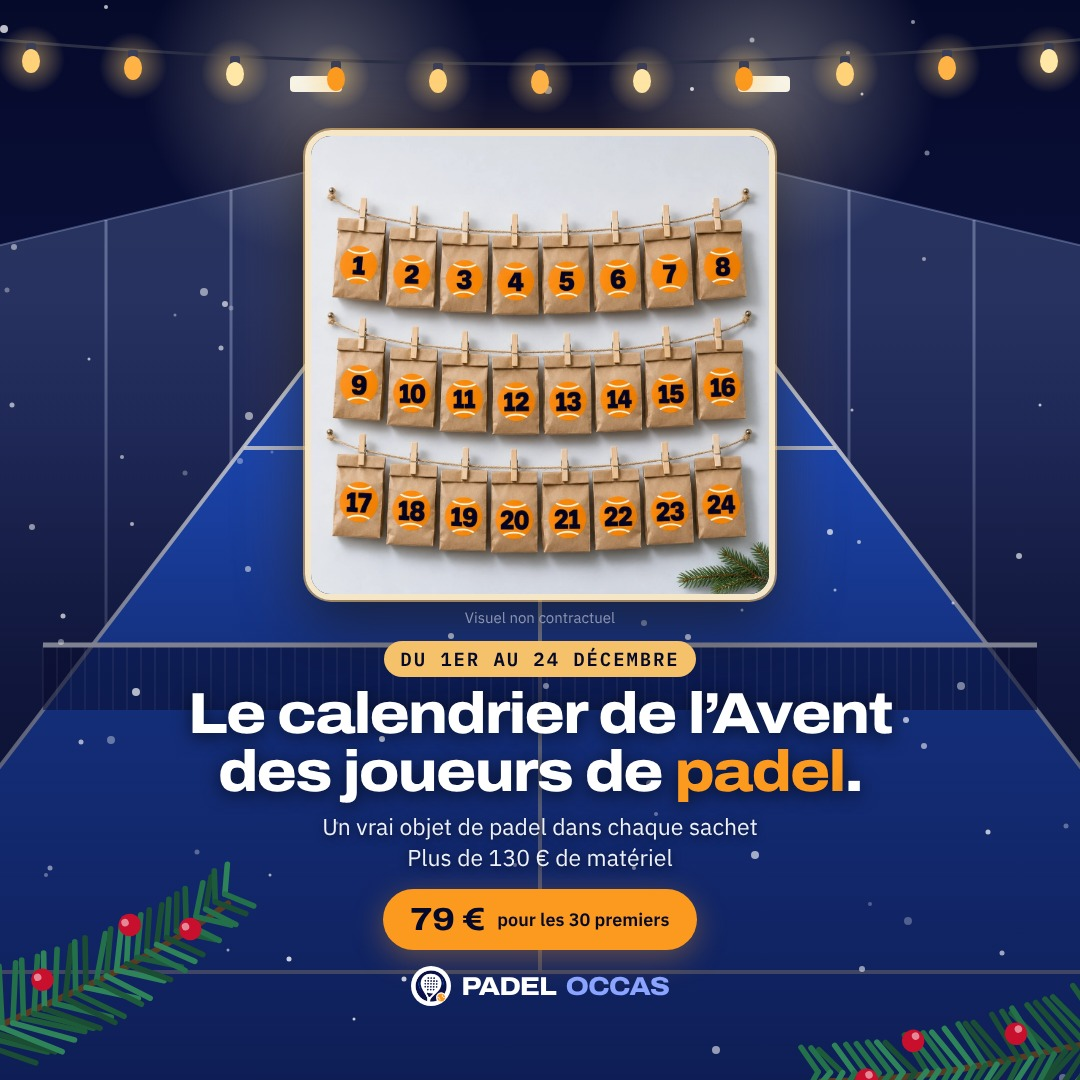
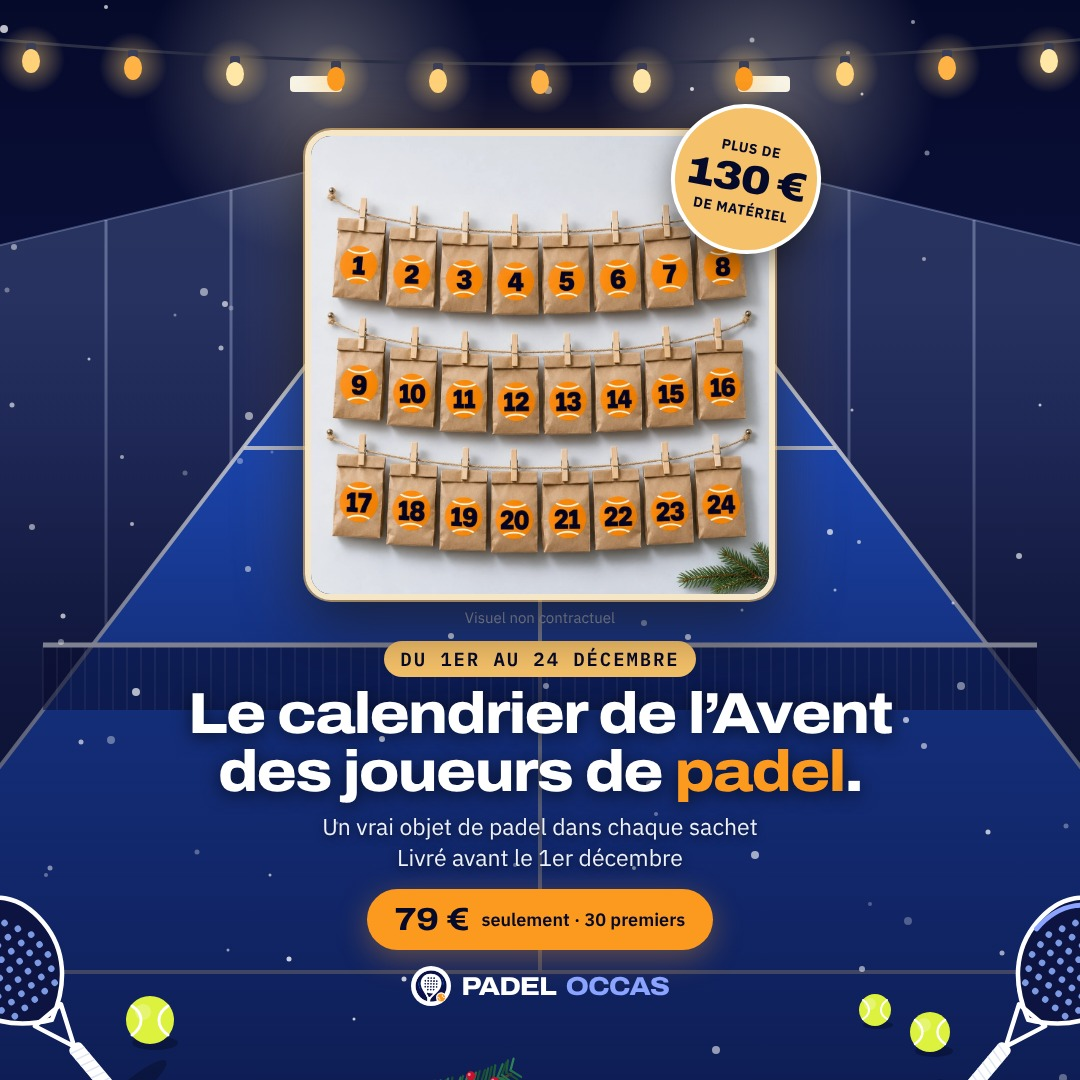
Pubs : raquettes, balles et pastille « + de 130 € » ; fiche Google Ads
Claude-Session: https://claude.ai/code/session_019D3zZFY3edwsYLJmSPcafF

diff --git a/pubs-meta/source/gen_pubs2.py b/pubs-meta/source/gen_pubs2.py
@@ -2,14 +2,14 @@ import sys, random
 P=sys.argv[1]
 random.seed(12)
 angles={
- 'pour-vous':{'eyebrow':'Du 1er au 24 décembre','titre':'Le calendrier de l’Avent<br>des joueurs de <span class="p">padel</span>.','sous':'Un vrai objet de padel dans chaque sachet<br>Plus de 130&nbsp;€ de matériel'},
+ 'pour-vous':{'eyebrow':'Du 1er au 24 décembre','titre':'Le calendrier de l’Avent<br>des joueurs de <span class="p">padel</span>.','sous':'Un vrai objet de padel dans chaque sachet<br>Livré avant le 1er&nbsp;décembre'},
  'cadeau':{'eyebrow':'Idée cadeau de Noël','titre':'Le cadeau de Noël<br>des joueurs de <span class="p">padel</span>.','sous':'24 surprises de padel à ouvrir en décembre<br>Livré avant le 1er&nbsp;décembre'},
 }
 formats={'carre':(1080,1080),'4x5':(1080,1350),'story':(1080,1920)}
 sizes={
- 'carre':dict(top=130,ph=470,gap=14,eb=19,t=58,m1=8,m2=10,s=23,m3=16,p=32,ps=18,lg=16),
- '4x5':dict(top=150,ph=660,gap=24,eb=21,t=68,m1=10,m2=12,s=26,m3=22,p=38,ps=21,lg=22),
- 'story':dict(top=290,ph=600,gap=24,eb=25,t=76,m1=12,m2=14,s=32,m3=26,p=48,ps=25,lg=20),
+ 'carre':dict(vr=46,vt=26,vs=150,vb=40,vsm=14,top=130,ph=470,gap=14,eb=19,t=58,m1=8,m2=10,s=23,m3=16,p=32,ps=18,lg=16),
+ '4x5':dict(vr=56,vt=30,vs=180,vb=48,vsm=16,top=150,ph=660,gap=24,eb=21,t=68,m1=10,m2=12,s=26,m3=22,p=38,ps=21,lg=22),
+ 'story':dict(vr=60,vt=34,vs=190,vb=50,vsm=17,top=290,ph=600,gap=24,eb=25,t=76,m1=12,m2=14,s=32,m3=26,p=48,ps=25,lg=20),
 }
 def garland(w, y0, sag, n):
     # fil + ampoules chaudes avec halo
@@ -78,6 +78,27 @@ def court(w,h,hz):
     # voile sombre pour la lisibilité du texte
     s+=f'<rect x="0" y="{y0:.0f}" width="{w}" height="{h-y0+40:.0f}" fill="url(#voile)"/>'
     return s
+def racket(x,y,sc,rot,accent='#FC9A20'):
+    g=f'<g transform="translate({x} {y}) rotate({rot}) scale({sc})">'
+    g+='<ellipse cx="0" cy="10" rx="92" ry="20" fill="#000" opacity=".25" transform="translate(30 330)"/>'
+    # tête
+    g+='<path d="M0 -150 C 80 -150 112 -95 112 -30 C 112 40 70 95 0 130 C -70 95 -112 40 -112 -30 C -112 -95 -80 -150 0 -150 Z" fill="#0E1442" stroke="#FFFFFF" stroke-width="9"/>'
+    g+=f'<path d="M-104 -20 C -104 -90 -60 -138 0 -140" fill="none" stroke="{accent}" stroke-width="10" stroke-linecap="round"/>'
+    import itertools
+    for r_,row in enumerate(range(-105,95,26)):
+        n=[3,5,6,7,7,7,6,5][min(r_,7)]
+        for c in range(n):
+            hx=(c-(n-1)/2)*26; g+=f'<circle cx="{hx:.0f}" cy="{row}" r="6.5" fill="#8FB2FF" opacity=".85"/>'
+    # cœur et manche
+    g+='<path d="M-34 118 L0 200 L34 118 Z" fill="none" stroke="#FFFFFF" stroke-width="9" stroke-linejoin="round"/>'
+    g+='<rect x="-15" y="196" width="30" height="120" rx="10" fill="#FFFFFF"/>'
+    for k in range(7): g+=f'<line x1="-15" y1="{206+k*16}" x2="15" y2="{214+k*16}" stroke="#E0E5F2" stroke-width="3"/>'
+    g+=f'<rect x="-19" y="308" width="38" height="14" rx="6" fill="{accent}"/>'
+    return g+'</g>'
+def pball(x,y,r):
+    return (f'<ellipse cx="{x+r*0.2:.0f}" cy="{y+r*0.95:.0f}" rx="{r*0.95:.0f}" ry="{r*0.28:.0f}" fill="#000" opacity=".28"/>'
+            f'<circle cx="{x}" cy="{y}" r="{r}" fill="#DDF23F"/><circle cx="{x-r*0.3:.0f}" cy="{y-r*0.35:.0f}" r="{r*0.35:.0f}" fill="#fff" opacity=".25"/>'
+            f'<path d="M{x-r*0.75:.0f} {y-r*0.6:.0f} c {r*0.5:.0f} {r*0.35:.0f} {r*0.5:.0f} {r*0.85:.0f} 0 {r*1.2:.0f} M{x+r*0.75:.0f} {y-r*0.6:.0f} c {-r*0.5:.0f} {r*0.35:.0f} {-r*0.5:.0f} {r*0.85:.0f} 0 {r*1.2:.0f}" fill="none" stroke="#fff" stroke-width="{max(2,r*0.12):.1f}" stroke-linecap="round"/>')
 CSS='''@font-face{font-family:Archivo;src:url(archivo.woff2);font-weight:400 900;font-stretch:62% 125%}
 @font-face{font-family:PlexMono;src:url(plexmono.woff2);font-weight:600}
 @font-face{font-family:PlexSans;src:url(plexsans.woff2);font-weight:400 700}
@@ -87,6 +108,10 @@ svg.deco{position:absolute;inset:0;z-index:1}
 .in{position:relative;z-index:2;padding-top:{top}px;display:flex;flex-direction:column;align-items:center}
 .photo{width:{ph}px;height:{ph}px;border-radius:26px;overflow:hidden;border:6px solid #F5E6C8;box-shadow:0 0 0 2px rgba(245,194,107,.6),0 22px 60px rgba(0,0,0,.55),0 0 80px rgba(255,190,90,.18);flex:none}
 .photo img{width:100%;height:100%;object-fit:cover;display:block}
+.pw{position:relative}
+.valeur{position:absolute;right:-{vr}px;top:-{vt}px;width:{vs}px;height:{vs}px;border-radius:50%;background:#F5C26B;color:#060A2A;display:flex;flex-direction:column;align-items:center;justify-content:center;transform:rotate(10deg);box-shadow:0 10px 30px rgba(0,0,0,.45);border:4px solid #fff;text-align:center;line-height:1}
+.valeur b{font-family:Archivo;font-weight:900;font-variation-settings:"wdth" 112;font-size:{vb}px;letter-spacing:-.03em;margin:4px 0}
+.valeur small{font-family:PlexSans;font-weight:700;font-size:{vsm}px;text-transform:uppercase;letter-spacing:.04em}
 .nc{margin-top:8px;font-family:PlexSans;font-size:15px;color:#8C93B0}
 .txt{text-align:center;margin-top:{gap}px;padding:0 50px}
 .eyebrow{display:inline-block;font-family:PlexMono;font-weight:600;font-size:{eb}px;letter-spacing:.1em;text-transform:uppercase;color:#060A2A;background:#F5C26B;border-radius:999px;padding:6px 16px}
@@ -97,6 +122,12 @@ h1 .p{color:#FC9A20}
 .prix small{font-family:PlexSans;font-weight:600;font-size:{ps}px}
 .logo{margin-top:{lg}px;display:flex;align-items:center;gap:10px;font-family:Archivo;font-weight:800;font-variation-settings:"wdth" 112;font-size:26px;letter-spacing:-.045em;color:#fff}
 .logo em{font-style:normal;color:#8AA4FF}.logo span{width:40px;height:40px;border-radius:50%;background:#fff;display:flex;align-items:center;justify-content:center}.logo img{width:34px;height:34px}'''
+def gear_for(f,w,h):
+    if f=='carre':
+        return racket(10,h-110,0.5,-40)+racket(w-10,h-110,0.5,40,'#8AA4FF')+pball(150,h-60,24)+pball(w-150,h-48,20)+pball(w-205,h-70,16)+sprig(w*0.5-140,h+30,0.5,-8)
+    if f=='4x5':
+        return racket(14,h-140,0.6,-38)+racket(w-14,h-140,0.6,38,'#8AA4FF')+pball(160,h-70,28)+pball(w-165,h-56,24)+pball(w-225,h-82,18)+sprig(w*0.5-160,h+34,0.55,-8)
+    return racket(95,1640,0.85,-24)+racket(w-95,1640,0.85,24,'#8AA4FF')+pball(190,1840,32)+pball(w-200,1860,28)+pball(w-270,1820,20)
 for a,tx in angles.items():
     for f,(w,h) in formats.items():
         d=dict(sizes[f],w=w,h=h); css=CSS
@@ -104,11 +135,11 @@ for a,tx in angles.items():
         gy={'carre':38,'4x5':44,'story':250}[f]
         deco=f'''<svg class="deco" viewBox="0 0 {w} {h}" width="{w}" height="{h}"><defs><radialGradient id="halo"><stop offset="0" stop-color="#FFD27A" stop-opacity=".9"/><stop offset="1" stop-color="#FFD27A" stop-opacity="0"/></radialGradient></defs>
 {court(w,h,{'carre':300,'4x5':360,'story':720}[f])}{snow(w,h,int(w*h/11000))}{garland(w,gy,26,11)}
-{sprig(-30,h-40,1.25,-18)}{sprig(w+30,h-40,1.25,-18,-1)}</svg>'''
+{gear_for(f,w,h)}</svg>'''
         html=f'''<!doctype html><html lang="fr"><head><meta charset="utf-8"><style>{css}</style></head><body><div class="c">{deco}<div class="in">
-<div class="photo"><img src="calendrier.jpg" alt=""></div><div class="nc">Visuel non contractuel</div>
+<div class="pw"><div class="photo"><img src="calendrier.jpg" alt=""></div><div class="valeur"><small>plus de</small><b>130&nbsp;€</b><small>de matériel</small></div></div><div class="nc">Visuel non contractuel</div>
 <div class="txt"><div class="eyebrow">{tx['eyebrow']}</div><h1>{tx['titre']}</h1><div class="sous">{tx['sous']}</div>
-<div class="prix">79&nbsp;€ <small>pour les 30 premiers</small></div></div>
+<div class="prix">79&nbsp;€ <small>seulement · 30 premiers</small></div></div>
 <div class="logo"><span><img src="logo-mark-transparent.png" alt=""></span>PADEL<em>OCCAS</em></div></div></div></body></html>'''
         open(f'{P}/noel-{a}-{f}.html','w').write(html)
 print('ok')

diff --git a/pubs-meta/fiche-google-ads.md b/pubs-meta/fiche-google-ads.md
@@ -1,0 +1,82 @@
+# Google Ads — Calendrier de l'Avent Padel Occas
+
+Pourquoi ça vaut le coup : environ 210 recherches par mois sur « calendrier de l'avent padel », à 0,15 € le clic environ, avec une concurrence faible. Ces gens cherchent exactement notre produit. Le volume est petit (quelques clics par jour) : Google Ads vient **en plus** de Meta, pas à la place.
+
+## 1. Avant de lancer : le suivi des ventes
+
+Dans WordPress → **Marketing → Google** (extension Google for WooCommerce, déjà installée) → **connecter le compte Google Ads**. L'extension crée elle-même la conversion « Achat ». Sans ça, Google ne sait pas quelles pubs vendent.
+
+## 2. Campagne
+
+- Nouvelle campagne → objectif **Ventes** → type **Réseau de Recherche**.
+- Décocher **Réseau Display** et **Partenaires du Réseau de Recherche**.
+- Lieu : **France**. Langue : **français**.
+- Budget : **5 € par jour** (montable à 10 € si ça vend).
+- Enchères : **Maximiser les clics** avec un CPC maximum de **0,60 €** pour démarrer. Après 10 à 15 ventes, passer en **Maximiser les conversions**.
+- Fin : **25 novembre**.
+
+## 3. Mots-clés
+
+Saisis-les avec les guillemets et les crochets, ils règlent la précision du ciblage.
+
+```
+[calendrier de l'avent padel]
+[calendrier avent padel]
+"calendrier de l'avent padel"
+"calendrier avent padel"
+"calendrier de l'avent raquette"
+"cadeau padel noel"
+"idée cadeau padel"
+"cadeau joueur de padel"
+```
+
+**Mots-clés à exclure** (onglet « Mots-clés à exclure ») :
+
+```
+gratuit
+diy
+fabriquer
+tuto
+emploi
+occasion
+tennis
+```
+
+## 4. L'annonce (annonce responsive)
+
+- **URL finale** : `https://padeloccas.fr/calendrier-avent-padel/?utm_source=google&utm_medium=cpc&utm_campaign=avent2026`
+- **Chemin affiché** : `calendrier-avent` / `padel`
+
+**Titres** (Google en affiche 2 ou 3 et les mélange) :
+1. Calendrier de l'Avent Padel *(à épingler en position 1)*
+2. + de 130 € de Matériel
+3. 79 € pour les 30 Premiers
+4. 24 Surprises de Padel
+5. Un Objet de Padel par Jour
+6. Livré avant le 1er Décembre
+7. Point Relais Offert
+8. Idée Cadeau Joueur de Padel
+9. Le Cadeau de Noël du Padel
+10. Série Limitée à 100
+11. Réservez le Vôtre
+12. Padel Occas
+
+**Descriptions** :
+1. 24 sachets, un vrai objet de padel dans chacun : plus de 130 € de matériel.
+2. 79 € pour les 30 premiers, puis 89 €. Livré en point relais avant le 1er décembre.
+3. Le cadeau de Noël idéal pour un joueur ou une joueuse de padel. Série limitée.
+4. Préparé par Padel Occas, sachet par sachet. Point relais Mondial Relay offert.
+
+**Éléments à ajouter** :
+- **Images** : `padel-occas-pub-noel-pour-vous-carre.jpg` et `padel-occas-pub-noel-pour-vous-4x5.jpg`.
+- **Prix** : « Calendrier de l'Avent Padel », 79 €.
+- **Accroches** : « Point relais offert », « Série limitée », « Expédition le 26/11 ».
+
+## 5. En option : Google Shopping
+
+Le calendrier peut aussi apparaître dans l'onglet Shopping avec sa photo et son prix, via **Marketing → Google** dans WordPress (campagne Performance Max). Il faut que la fiche produit soit acceptée dans Merchant Center : vérifie son état sur la même page.
+
+## 6. Règles
+
+- **Dès que les 30 premiers sont vendus**, il faut retirer les titres « 79 € pour les 30 Premiers » et la description 2, et passer le prix à 89 €.
+- Une fois par semaine, regarde le rapport **« Termes de recherche »** et exclus ce qui n'a rien à voir.

diff --git a/pubs-meta/prompts-openart.md b/pubs-meta/prompts-openart.md
@@ -1,5 +1,7 @@
 # Prompts OpenArt — Calendrier de l'Avent Padel Occas
 
+> Abandonné : la vidéo générée ne montrait pas assez le padel. Pour la vidéo, on part des visuels maison (raquettes, balles, terrain).
+
 ## 1. Vidéo de pub (image → vidéo) — le meilleur usage de tes crédits
 
 Dans OpenArt, choisis **Image to Video**, importe `source/calendrier.jpg` (ta photo du calendrier), format **9:16** si proposé, durée **5 à 8 secondes**.
@@ -15,8 +17,6 @@ Si l'outil a un champ « negative prompt » :
 **À vérifier** : les numéros ne doivent pas se déformer pendant la vidéo. Si ça arrive, relance avec un mouvement plus faible (« very subtle camera movement »).
 
 ## 2. Image d'ambiance : le calendrier sur un terrain de padel décoré pour Noël
-
-Pas de raquette ni de balles dans l'image : les gens croiraient qu'elles sont dans le calendrier.
 
 Choisis **Text to Image** ou **Image to Image** avec ta photo, format **4:5**.
 
